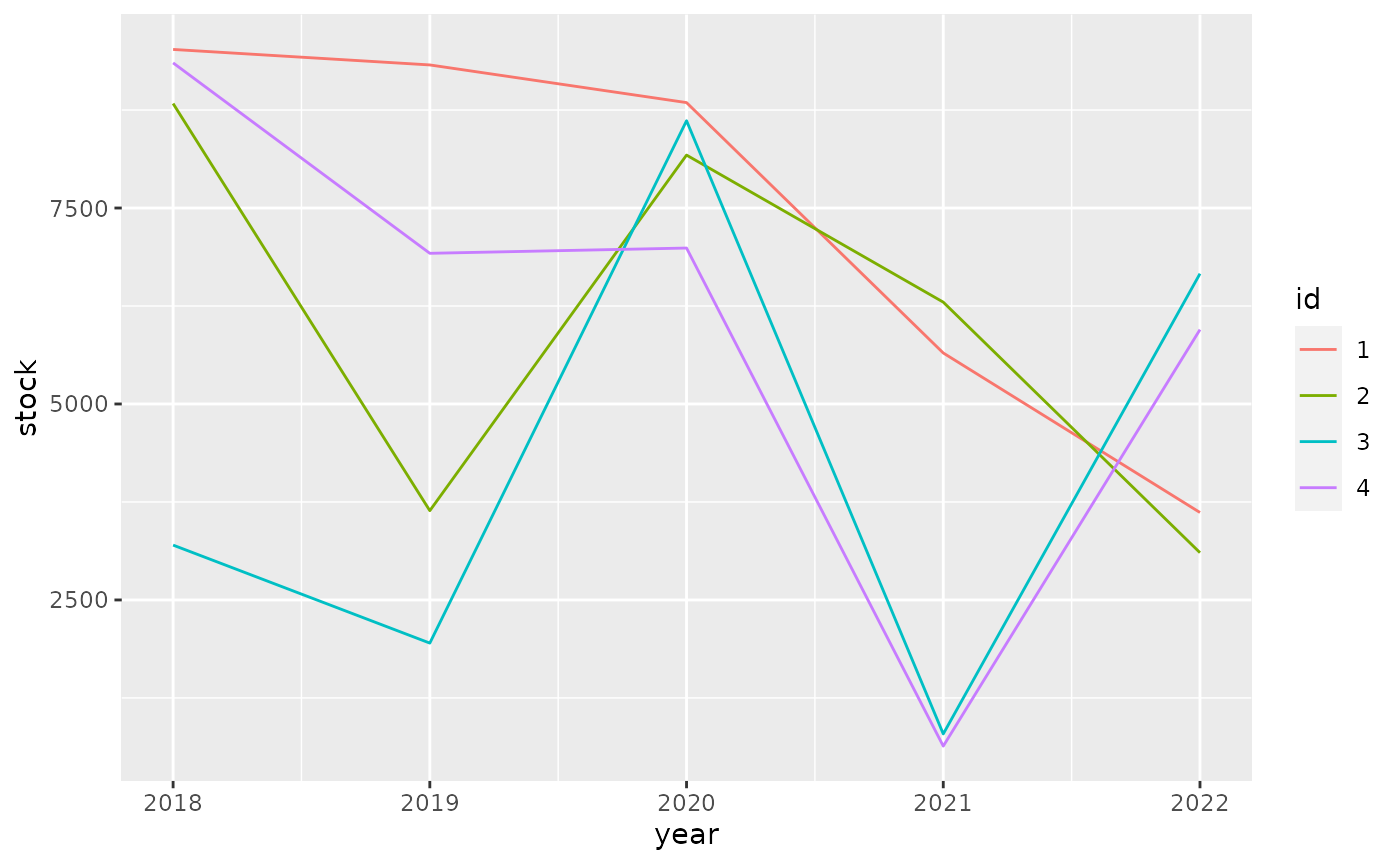
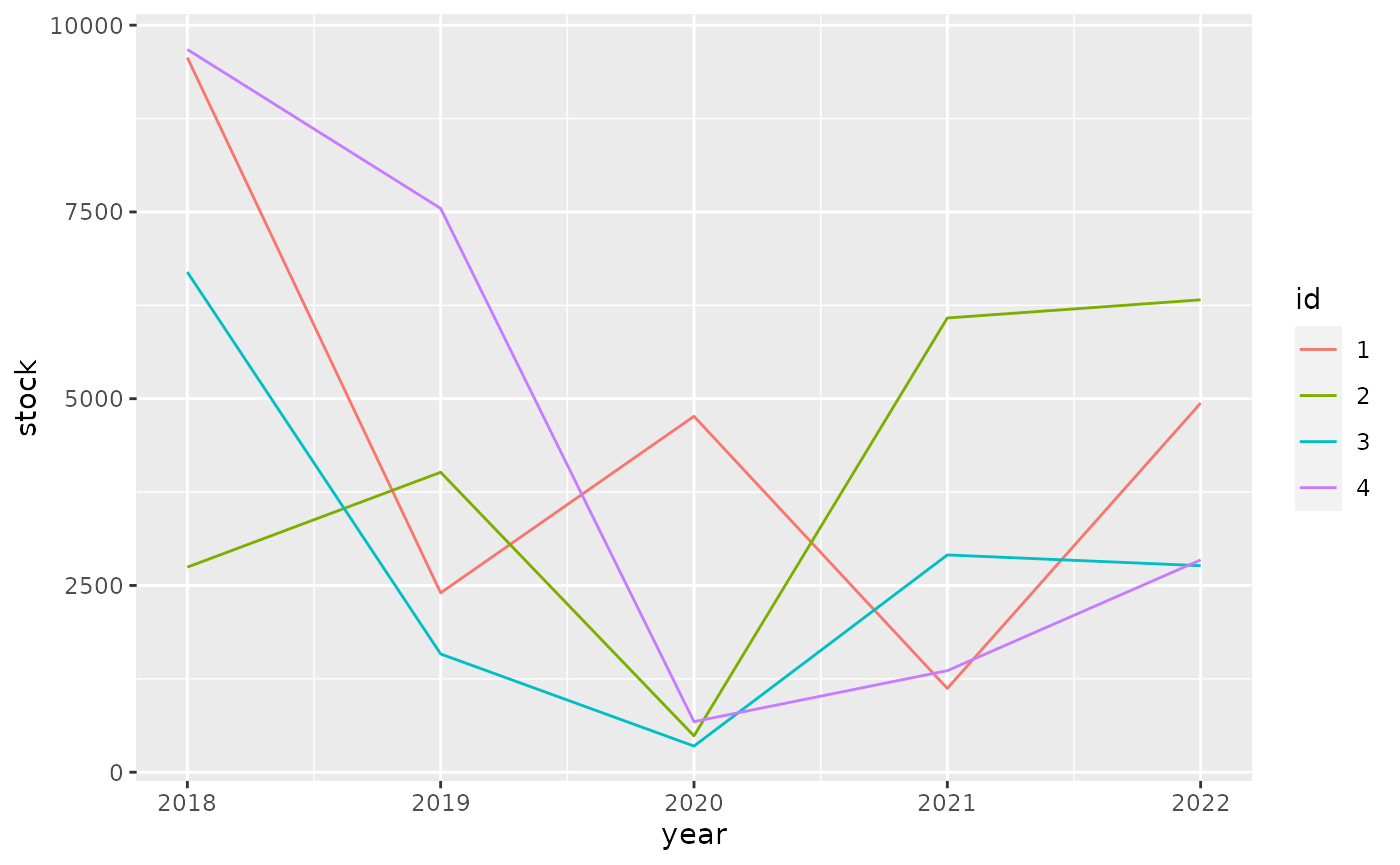
Built site for tibble: 3.0.4.9000@c96aa6b

diff --git a/dev/articles/formats.html b/dev/articles/formats.html
@@ -220,10 +220,10 @@
 <span class="co">#&gt; # A tibble: 4 x 6</span>
 <span class="co">#&gt;   id       `2018`    `2019`    `2020`    `2021`    `2022`</span>
 <span class="co">#&gt;   &lt;fct&gt; &lt;dbl:fmt&gt; &lt;dbl:fmt&gt; &lt;dbl:fmt&gt; &lt;dbl:fmt&gt; &lt;dbl:fmt&gt;</span>
-<span class="co">#&gt; 1 1     $9,522.95 $9,325.31 $8,844.80 $5,650.69 $3,615.69</span>
-<span class="co">#&gt; 2 2     $8,832.83 $3,638.93 $8,175.15 $6,299.16 $3,103.15</span>
-<span class="co">#&gt; 3 3     $3,199.75 $1,949.61 $8,613.30   $791.02 $6,662.51</span>
-<span class="co">#&gt; 4 4     $9,351.54 $6,922.16 $6,989.36   $635.61 $5,948.97</span></code></pre></div>
+<span class="co">#&gt; 1 1     $9,566.76 $2,401.32 $4,764.49 $1,121.69 $4,941.46</span>
+<span class="co">#&gt; 2 2     $2,745.00 $4,014.94   $486.72 $6,080.21 $6,323.43</span>
+<span class="co">#&gt; 3 3     $6,695.50 $1,582.82   $349.74 $2,908.69 $2,764.34</span>
+<span class="co">#&gt; 4 4     $9,675.09 $7,547.07   $676.59 $1,359.55 $2,841.85</span></code></pre></div>
 <p>For ggplot2 we need to do <a href="https://github.com/tidyverse/ggplot2/pull/4065">some work</a> to show apply the formatting to the scales.</p>
 <div class="sourceCode" id="cb6"><pre class="downlit sourceCode r">
 <code class="sourceCode R"><span class="kw"><a href="https://rdrr.io/r/base/library.html">library</a></span><span class="op">(</span><span class="va"><a href="http://ggplot2.tidyverse.org">ggplot2</a></span><span class="op">)</span>
@@ -234,10 +234,10 @@
   <span class="fu"><a href="https://ggplot2.tidyverse.org/reference/geom_path.html">geom_line</a></span><span class="op">(</span><span class="op">)</span></code></pre></div>
 <p><img src="formats_files/figure-html/unnamed-chunk-7-1.png" width="700"></p>
 <p>It pays off to specify formatting very early in the process. The diagram below shows the principal stages of data analysis and exploration from “R for data science”.</p>
-<div id="htmlwidget-d85817a4ca2252cf0bc6" style="width:700px;height:432.632880098888px;" class="DiagrammeR html-widget"></div>
-<script type="application/json" data-for="htmlwidget-d85817a4ca2252cf0bc6">{"x":{"diagram":"graph TD\n  Import --> Tidy\n  Tidy --> Transform\n  Transform --> Visualize\n  Visualize --> Communicate\n  Visualize --> Model\n  Model -.-> Transform"},"evals":[],"jsHooks":[]}</script><p>The subsequent diagram adds data formats, communication options, and explicit data formatting. The original r4ds transitions are highlighted in bold. There are two principal options where to apply formatting for results: right before communicating them, or right after importing.</p>
-<div id="htmlwidget-b18b98aa45c4e4a7bc1d" style="width:700px;height:432.632880098888px;" class="DiagrammeR html-widget"></div>
-<script type="application/json" data-for="htmlwidget-b18b98aa45c4e4a7bc1d">{"x":{"diagram":"graph TD\n  .csv --> Import\n  API --> Import\n  DBI --> Import\n  dbplyr --> Import\n  Import -.-> Format[Format for analysis]\n  Format -.-> Tidy\n\n  subgraph r4ds\n  Import ==> Tidy\n  Tidy ==> Transform\n  Transform ==> Visualize\n  Visualize ==> Model\n  Model -.-> Transform\n  Visualize ==> Communicate\n  end\n\n  Visualize -.-> FormatComm[Format for communication]\n  FormatComm -.-> Communicate\n\n  FormatComm -- Apply formatting early --> Format\n\n  dbplyr -.-> Tidy\n  dbplyr -.-> Transform\n  dbplyr -.-> Visualize\n\n  Communicate --> gt\n  Communicate --> ggplot2\n  Communicate --> DT\n  Communicate --> plotly"},"evals":[],"jsHooks":[]}</script><p>Applying formatting early in the process gives the added benefit of showing the data in a useful format during the “Tidy”, “Transform”, and “Visualize” stages. For this to be useful, we need to ensure that the formatting options applied early:</p>
+<div id="htmlwidget-9a246a588536905550d0" style="width:700px;height:432.632880098888px;" class="DiagrammeR html-widget"></div>
+<script type="application/json" data-for="htmlwidget-9a246a588536905550d0">{"x":{"diagram":"graph TD\n  Import --> Tidy\n  Tidy --> Transform\n  Transform --> Visualize\n  Visualize --> Communicate\n  Visualize --> Model\n  Model -.-> Transform"},"evals":[],"jsHooks":[]}</script><p>The subsequent diagram adds data formats, communication options, and explicit data formatting. The original r4ds transitions are highlighted in bold. There are two principal options where to apply formatting for results: right before communicating them, or right after importing.</p>
+<div id="htmlwidget-f35522edfb58e5e40a36" style="width:700px;height:432.632880098888px;" class="DiagrammeR html-widget"></div>
+<script type="application/json" data-for="htmlwidget-f35522edfb58e5e40a36">{"x":{"diagram":"graph TD\n  .csv --> Import\n  API --> Import\n  DBI --> Import\n  dbplyr --> Import\n  Import -.-> Format[Format for analysis]\n  Format -.-> Tidy\n\n  subgraph r4ds\n  Import ==> Tidy\n  Tidy ==> Transform\n  Transform ==> Visualize\n  Visualize ==> Model\n  Model -.-> Transform\n  Visualize ==> Communicate\n  end\n\n  Visualize -.-> FormatComm[Format for communication]\n  FormatComm -.-> Communicate\n\n  FormatComm -- Apply formatting early --> Format\n\n  dbplyr -.-> Tidy\n  dbplyr -.-> Transform\n  dbplyr -.-> Visualize\n\n  Communicate --> gt\n  Communicate --> ggplot2\n  Communicate --> DT\n  Communicate --> plotly"},"evals":[],"jsHooks":[]}</script><p>Applying formatting early in the process gives the added benefit of showing the data in a useful format during the “Tidy”, “Transform”, and “Visualize” stages. For this to be useful, we need to ensure that the formatting options applied early:</p>
 <ul>
 <li>give a good user experience for analysis
 <ul>

diff --git a/dev/articles/types.html b/dev/articles/types.html
@@ -350,7 +350,7 @@
 #&gt; $ factor        &lt;fct&gt; A
 #&gt; $ ordered       &lt;ord&gt; a
 #&gt; $ Date          &lt;date&gt; 2020-12-08
-#&gt; $ POSIXt        &lt;dttm&gt; 2020-12-08 07:25:35
+#&gt; $ POSIXt        &lt;dttm&gt; 2020-12-08 08:14:18
 #&gt; $ difftime      &lt;drtn&gt; 1 secs
 #&gt; $ hms           &lt;time&gt; 00:00:01
 #&gt; $ integer64     &lt;int64&gt; 10000000000
@@ -380,7 +380,7 @@
 <span class="co">#&gt;             "sym"</span>
 <span class="co">#&gt;         }, typeof(x))</span>
 <span class="co">#&gt; }</span>
-<span class="co">#&gt; &lt;bytecode: 0x55ff036425c0&gt;</span>
+<span class="co">#&gt; &lt;bytecode: 0x55a743ff9f28&gt;</span>
 <span class="co">#&gt; &lt;environment: namespace:pillar&gt;</span></code></pre></div>
 </div>
   </div>
